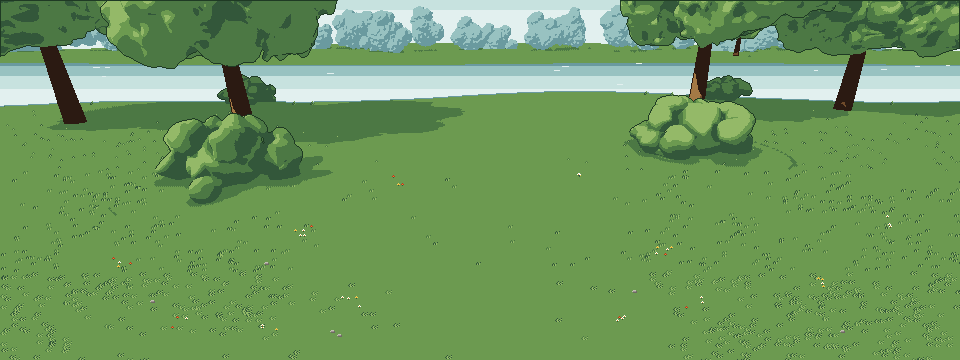
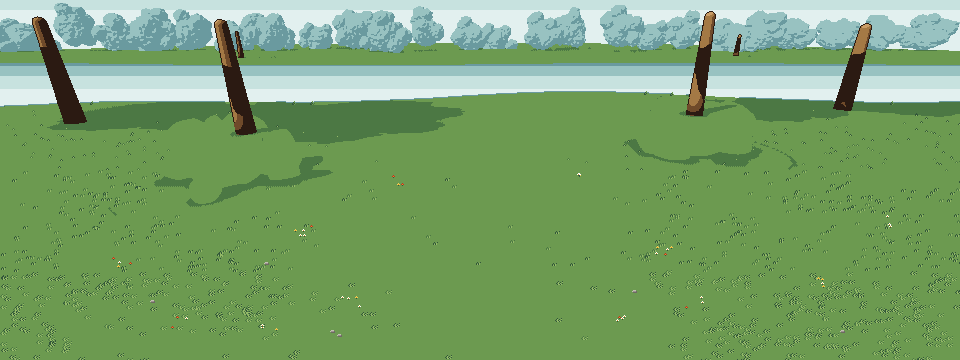
feat(scene): leaves sway in the wind and glints drift on the river
The garden render now also writes the foliage, a water mask, and two strips of glints as their own layers, with what lies behind the leaves filled in on the base. The page skews the leaves in gusts from the left, tops more than the ground, and drifts the glints downstream, near ones faster. Reduced motion keeps it still.

diff --git a/site.css b/site.css
@@ -166,6 +166,19 @@ a:focus-visible{color:var(--red);text-decoration-color:var(--red)}
 }
 .stage img{position:absolute;max-width:none;image-rendering:pixelated}
 .stage .bg{width:calc(960*var(--a));left:clamp(calc(100vw - 960*var(--a)),calc(var(--cx) - 480*var(--a)),0px);top:min(0px,round(calc(var(--edge) - 196*var(--a)),1px))}
+/* the garden moves: glints drift downstream on the river, the near ones faster, and the leaves lean and settle in gusts of wind from the left, the tops more than the ground */
+.stage .water{position:absolute;aspect-ratio:960/360;overflow:hidden;-webkit-mask:url(img/scene-bg-water.png) 0 0/100% 100%;mask:url(img/scene-bg-water.png) 0 0/100% 100%}
+.stage .water i{position:absolute;left:calc(-480*var(--a));top:0;bottom:0;width:calc(100% + 480*var(--a));background:url(img/scene-bg-glint-far.png) 0 0/calc(480*var(--a)) 100% repeat-x;image-rendering:pixelated}
+.stage .water .near{background-image:url(img/scene-bg-glint-near.png)}
+.stage .leaves{transform-origin:50% 70%}
+@media (prefers-reduced-motion:no-preference){
+  .stage .water .far{animation:flow 96s steps(480) infinite,shimmer 4.3s ease-in-out infinite alternate}
+  .stage .water .near{animation:flow 54s steps(480) infinite,shimmer 3.1s ease-in-out -1.4s infinite alternate}
+  .stage .leaves{animation:wind 9s ease-in-out infinite}
+}
+@keyframes flow{to{transform:translateX(calc(480*var(--a)))}}
+@keyframes shimmer{from{opacity:.55}to{opacity:1}}
+@keyframes wind{0%,100%{transform:skewX(-.15deg)}14%{transform:skewX(-.7deg)}24%{transform:skewX(-.35deg)}38%{transform:skewX(-.85deg)}52%{transform:skewX(-.2deg)}70%{transform:skewX(-.6deg)}84%{transform:skewX(-.3deg)}}
 .stage .spr--elder{width:calc(138*var(--a));left:calc(var(--cx) - 69*var(--a));top:round(calc(var(--edge) - 114*var(--a)),1px)}
 
 /* Each flat part of the table is its own element under the same camera, so no browser has to sort 3D layers. Units are board cells, the board's far left point is 0 0. */

diff --git a/index.html b/index.html
@@ -49,6 +49,8 @@
 </svg>
 <div class="stage pre" aria-hidden="true">
 <img class="bg" src="img/scene-bg.png" alt="" width="960" height="360">
+<div class="bg water"><i class="far"></i><i class="near"></i></div>
+<img class="bg leaves" src="img/scene-bg-leaves.png" alt="" width="960" height="360">
 <img class="spr spr--elder" src="img/scene-elder.png" alt="" width="138" height="166">
 <div class="sf table" style="background-image:url(img/scene-table.png)"><span class="shade" style="--x:-2;--y:.9;--s:1.2"></span><span class="shade" style="--x:9.7;--y:.9;--s:.45"></span><span class="shade" style="--x:9.75;--y:4.5;--s:1.1"></span><span class="shade shade--near" style="--x:1.3;--y:11.2;--s:1.1"></span><span class="shade shade--near" style="--x:6.9;--y:11;--s:.5"></span><span class="slab-shadow"></span></div>
 <span class="sf apron" style="background-image:url(img/scene-table.png)"></span>
